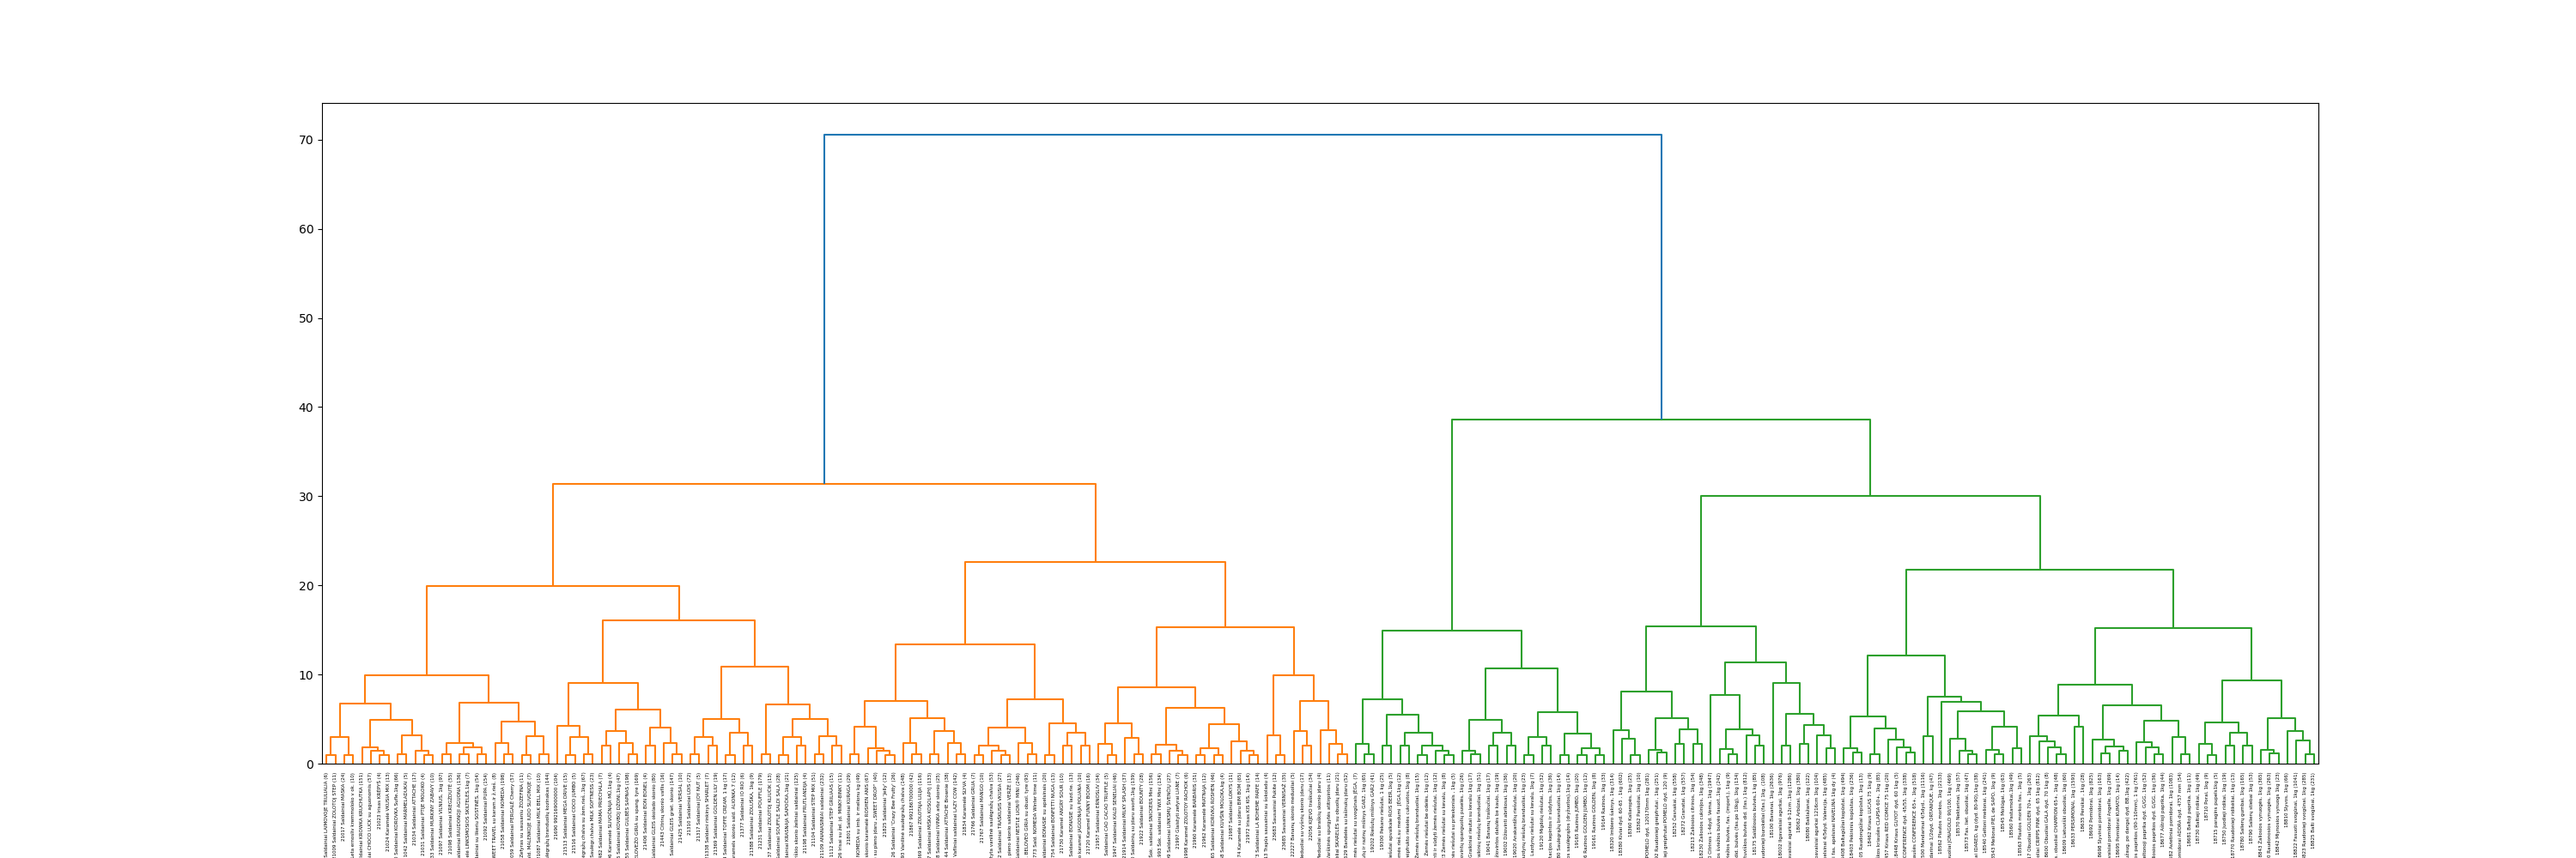
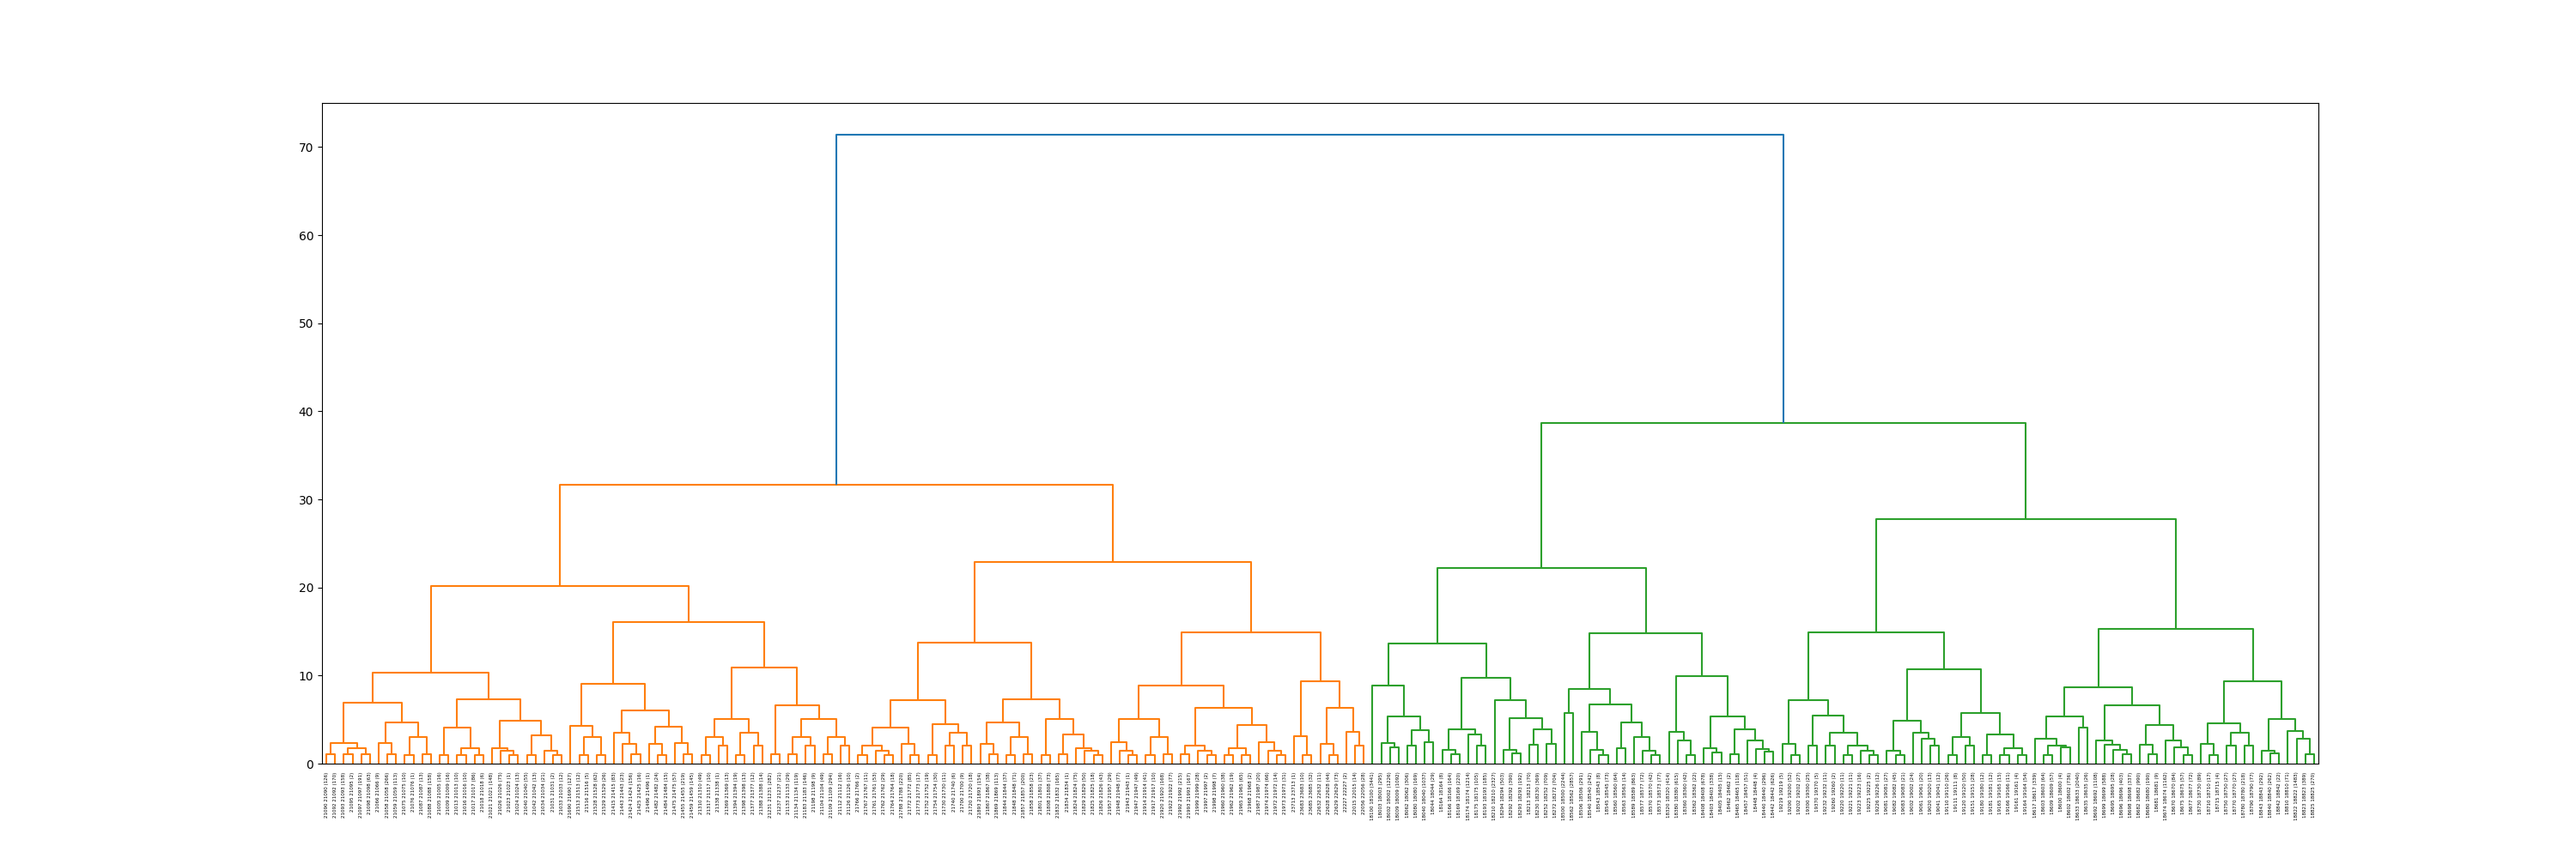
*

diff --git a/Dataset_descr/file_cts_graphs.py b/Dataset_descr/file_cts_graphs.py
@@ -31,9 +31,9 @@ cat_names_bycat = df_prods_cnt_catname_grouped.index.tolist()
 
 plt.pie(file_cnt_bycat, labels=cat_names_bycat, autopct=lambda pct:r"{:.1f}%".format(pct) if pct>2.4 else "", shadow=True, startangle=90,  labeldistance=None)
 plt.title ("Image count by category", fontsize=14, fontweight="bold")
-plt.legend(loc=[0.8,0])
+plt.legend(loc=[1.0,0])
 plt.tight_layout()
-plt.savefig('filecnt_by_cat.png')
+plt.savefig('filecnt_by_cat.png', bbox_inches='tight')
 plt.close()
 
 # categories products count
@@ -42,8 +42,9 @@ bc_cnt_bycat = df_prods_bcs_catname_grouped.barcode["count"].tolist()
 cat_names_bycat = df_prods_bcs_catname_grouped.index.tolist()
 
 plt.pie(bc_cnt_bycat, labels=cat_names_bycat, autopct=lambda pct:r"{:.1f}%".format(pct) if pct>2.4 else "", shadow=True, startangle=90,  labeldistance=None)
+plt.subplots_adjust(top=1, bottom=0, right=1, left=0, hspace=0, wspace=0)
 plt.title ("Product count by category", fontsize=14, fontweight="bold")
-plt.legend(loc=[0.8,0])
+#plt.legend(loc=[0.8,0])
 plt.tight_layout()
-plt.savefig('bccnt_by_cat.png')
+plt.savefig('bccnt_by_cat.png', bbox_inches='tight')
 plt.close()

diff --git a/Dendro/make_dendro.py b/Dendro/make_dendro.py
@@ -3,7 +3,9 @@ import numpy as np
 from scipy.cluster.hierarchy import linkage, dendrogram
 from matplotlib import pyplot as plt
 
-df_prods = pd.read_csv ('dendrogramai.csv', header=None, names=["ProductName","ProductCode","Cnt"])
+#df_prods = pd.read_csv ('dendrogramai.csv', header=None, names=["ProductName","ProductCode","Cnt"])
+df_prods = pd.read_csv ('dendrogramai_IsKnownImages_Affine.csv', header=None, names=["ProductName","ProductCode","Cnt"])
+
 cnt_prods = len(df_prods)
 
 mat_dist = np.zeros ((cnt_prods,cnt_prods), dtype=float)

diff --git a/Bal_Overfit_Siam_Result/make_boxplots_resnet_vs_isVisible.py b/Bal_Overfit_Siam_Result/make_boxplots_resnet_vs_isVisible.py
@@ -6,7 +6,7 @@ metrics_file = r"metrics_resnet_vs_isVisible.csv"
 
 df_metrics = pd.read_csv(metrics_file)
 
-lbl_models = {"Resnet50": "Resnet50", "IsVisible": "Authors'\nVisibility\narchitecture", "autoenc": "Autoencoder\nbased"}
+lbl_models = {"EffNet": "EfficientNet\nBO", "Resnet50": "Resnet50", "IsVisible": "Authors'\nVisibility\narchitecture", "autoenc": "Autoencoder\nbased"}
 lst_test_accs = []
 lst_x_labels = []
 for model_version in np.unique( df_metrics.model_version):

diff --git a/DataResplit_Ablation/make_boxplots_ablation.py b/DataResplit_Ablation/make_boxplots_ablation.py
@@ -38,7 +38,7 @@ plt.boxplot (lst_test_accs, labels=lst_x_labels)
 #plt.xticks(ticks=(np.arange(len(lst_x_labels)))+1, labels=lst_x_labels, rotation=90)
 plt.title ("Test accuracy, ablation study", fontsize=14, fontweight="bold")
 #legend = plt.legend(["Q1: <1/4 product area visibility", "BagR: plastic bags with high glare"], loc='lower left', handlelength=0)
-#plt.tight_layout()
+plt.tight_layout()
 plt.savefig("testacc_ablation.png")
 #plt.show()
 plt.close()
